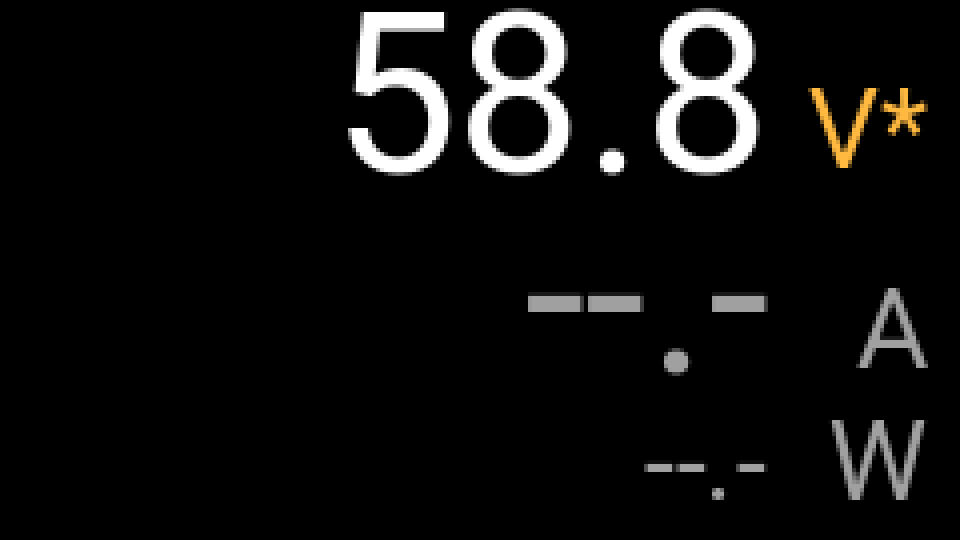
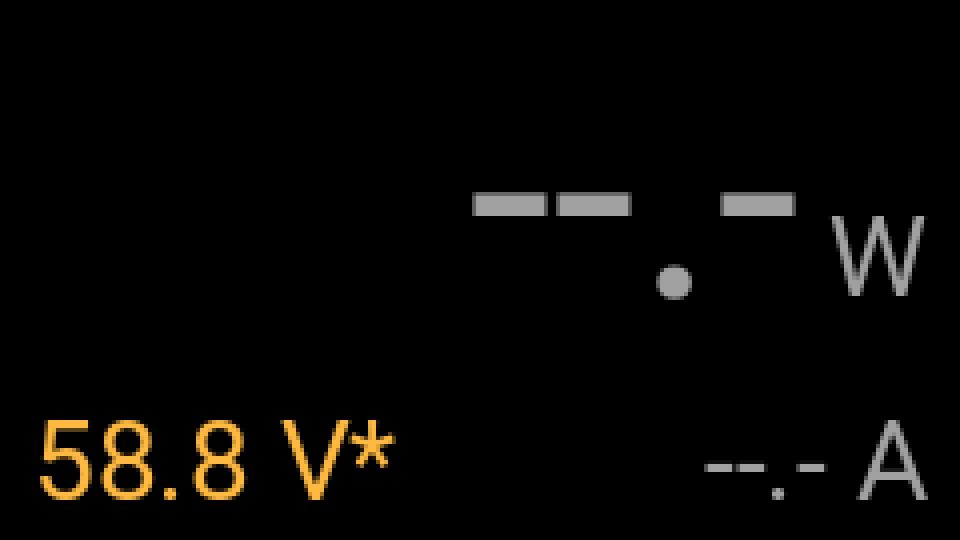
Prioritize watts with a compact single-row voltage and current footer

diff --git a/tests/telemetry_view_test.cpp b/tests/telemetry_view_test.cpp
@@ -401,23 +401,27 @@ void test_meter_values_and_power() {
   Event ui; ui.type = EventType::UI_STATE; ui.ui_mode = UiMode::METER; deliver(bus, ui);
   deliver(bus, telemetry(52.7f, 3.2f, 1000));
   auto view = make_view(bus.snapshot(), 1000);
-  assert(view.count == 6 && view.labels[0].font == Font::HERO);
-  assert(view.labels[0].text == "52.7" && view.labels[2].text == "3.2" && view.labels[4].text == "168.6");
+  assert(view.count == 4 && view.labels[0].font == Font::HERO);
+  assert(view.labels[0].text == "168.6" && view.labels[2].text == "52.7 V" && view.labels[3].text == "3.2 A");
   assert(!contains(view, "58.4") && !contains(view, "BLE") && !contains(view, "设定"));
   for (uint32_t time : {7000u, 7001u}) {
     view = make_view(bus.snapshot(), time);
-    assert(view.labels[0].text == "--.-" && view.labels[2].text == "--.-" && view.labels[4].text == "--.-");
+    assert(view.labels[0].text == "--.-" && view.labels[2].text == "--.- V" && view.labels[3].text == "--.- A");
   }
   Event cap; cap.type = EventType::TELEMETRY_CAPABILITY; cap.telemetry_supported = true;
   cap.telemetry_channels = 1; cap.telemetry_inferred = true; deliver(bus, cap);
   deliver(bus, telemetry(58.9f, 99.0f, 8000));
   view = make_view(bus.snapshot(), 8000);
-  assert(view.labels[0].text == "58.9" && view.labels[1].text == "V*");
-  assert(view.labels[2].text == "--.-" && view.labels[4].text == "--.-");
+  assert(view.labels[2].text == "58.9 V*" && view.labels[1].text == "W");
+  assert(view.labels[0].text == "--.-" && view.labels[3].text == "--.- A");
   connect(bus, false); view = make_view(bus.snapshot(), 8001);
-  assert(view.labels[0].text == "--.-" && view.labels[4].text == "--.-");
+  assert(view.labels[0].text == "--.-" && view.labels[3].text == "--.- A");
   connect(bus); capability(bus); deliver(bus, telemetry(0.0f, 0.0f, 9000));
-  view = make_view(bus.snapshot(), 9000); assert(view.labels[4].text == "0.0");
+  view = make_view(bus.snapshot(), 9000); assert(view.labels[0].text == "0.0");
+  deliver(bus, telemetry(100.0f, 10.0f, 9001));
+  view = make_view(bus.snapshot(), 9001);
+  assert(view.labels[0].text == "1000.0" && view.labels[0].font == Font::LARGE);
+  assert(view.labels[2].y == view.labels[3].y);  // V/A share the footer row.
 }
 
 int main() {

diff --git a/components/charger_display/charger_display.h b/components/charger_display/charger_display.h
@@ -106,13 +106,14 @@ inline View make_view(const charger_event_bus::Snapshot &state, uint32_t now) {
     // Both measurements must belong to the same accepted, fresh telemetry event.
     // Setpoints never participate, and an unavailable current never becomes zero watts.
     const float power = std::isfinite(voltage) && std::isfinite(current) ? voltage * current : NAN;
-    view.add(192, -9, Font::HERO, std::isfinite(voltage) ? Ink::WHITE : Ink::MUTED, number(voltage), true);
-    view.add(232, 16, Font::POWER, state.telemetry_inferred ? Ink::AMBER : Ink::MUTED,
-        state.telemetry_inferred ? "V*" : "V", true);
-    view.add(192, 41, Font::HERO, std::isfinite(current) ? Ink::WHITE : Ink::MUTED, number(current), true);
-    view.add(232, 66, Font::POWER, Ink::MUTED, "A", true);
-    view.add(192, 99, Font::POWER, std::isfinite(power) ? Ink::WHITE : Ink::MUTED, number(power), true);
-    view.add(232, 99, Font::POWER, Ink::MUTED, "W", true);
+    const std::string watts = number(power);
+    const bool large_watts = watts.size() <= 5;
+    view.add(200, large_watts ? 3 : 37, large_watts ? Font::HERO : Font::LARGE,
+        std::isfinite(power) ? Ink::WHITE : Ink::MUTED, watts, true);
+    view.add(232, 48, Font::POWER, Ink::MUTED, "W", true);
+    view.add(8, 99, Font::POWER, state.telemetry_inferred ? Ink::AMBER : Ink::MUTED,
+        number(voltage) + (state.telemetry_inferred ? " V*" : " V"));
+    view.add(232, 99, Font::POWER, Ink::MUTED, number(current) + " A", true);
     return view;
   }
   const char *link = state.connected ? "BLE 已连接" :

diff --git a/tests/render_lcd.py b/tests/render_lcd.py
@@ -33,7 +33,7 @@ def main():
     missing = {c for c in labels if ord(c) > 127} - declared
     if missing:
         raise RuntimeError(f'UI font inventory missing characters: {sorted(missing)}')
-    fonts = [ImageFont.truetype(str(ROOT / 'assets/ChargerSansSC.ttf'), n) for n in (12, 14)] + [ImageFont.truetype(str(ROOT / 'assets/Roboto.ttf'), n) for n in (40, 56, 28)]
+    fonts = [ImageFont.truetype(str(ROOT / 'assets/ChargerSansSC.ttf'), n) for n in (12, 14)] + [ImageFont.truetype(str(ROOT / 'assets/Roboto.ttf'), n) for n in (40, 76, 28)]
     colors = [(255, 255, 255), (160, 160, 160), (64, 230, 140), (255, 185, 64)]
     names = []
     args.output.mkdir(parents=True, exist_ok=True)

diff --git a/tests/render_lcd.cpp b/tests/render_lcd.cpp
@@ -41,6 +41,9 @@ int main() {
   state.ui_mode = UiMode::METER;
   emit("lcd-meter-simulation.png", state);
   emit("lcd-meter-stale-preview.png", state, 8000);
+  state.output_voltage = 100.0f; state.output_current = 10.0f;
+  emit("lcd-meter-wide-simulation.png", state);
+  state.output_voltage = 53.8f; state.output_current = 4.9f;
   state.ui_mode = UiMode::VIEW;
   emit("lcd-stale-simulation.png", state, 8000);
   state.connected = state.connection_enabled = state.ready = false;

diff --git a/README.md b/README.md
@@ -146,11 +146,11 @@ Local feedback distinguishes **parameters refreshed**, **settings confirmed**, a
 
 ### Idle meter page
 
-With both LCD and Button enabled, **15 seconds without button activity on the home page** opens a dedicated meter: **56 px voltage and current**, with power below. It shows only the three readings and units. Any A/B press returns to the home page; the entire wake gesture is consumed, so it cannot also refresh, connect, edit, or submit. Editing, confirmation, Help, pending requests and held buttons do not switch to the meter. LCD-only builds keep the home page.
+With both LCD and Button enabled, **15 seconds without button activity on the home page** opens a dedicated meter: **76 px power as the main reading**, with voltage and current together in a smaller 28 px footer row. Longer power readings shrink to fit. It shows only the three readings and units. Any A/B press returns to the home page; the entire wake gesture is consumed, so it cannot also refresh, connect, edit, or submit. Editing, confirmation, Help, pending requests and held buttons do not switch to the meter. LCD-only builds keep the home page.
 
 Power is **live voltage × live current from the same fresh telemetry sample**, never a product of setpoints. The current voltage-only decoder leaves current and power as `--.-`. Disconnected, invalid or stale readings also become `--.-`. Amber `V*` preserves the provisional-voltage warning; return home for full BLE/data status.
 
-<img src="docs/images/lcd-meter-preview.png" width="480" alt="Idle meter layout preview: large provisional voltage, unavailable current and power">
+<img src="docs/images/lcd-meter-preview.png" width="480" alt="Idle meter layout preview: large power reading, with voltage and current together below">
 
 [All-channel meter simulation](docs/images/lcd-meter-simulation.png) demonstrates computed power using synthetic values, not device measurements.
 

diff --git a/README.zh-CN.md b/README.zh-CN.md
@@ -144,11 +144,11 @@ esphome logs esp32-headless.yaml --device /dev/cu.YOUR_PORT
 
 ### 待机仪表页
 
-同时启用 LCD 和 Button 时，**主页 15 秒没有按键操作**，自动进入专属仪表页：电压、电流使用 **56 px 大字**，功率单独显示在底部，只保留三项读数和单位。按 A 或 B 返回主页；唤醒的整次手势会被消费，不会同时刷新、连接、编辑或提交。编辑、确认、帮助、请求未完成及按住按键时不会切入仪表页。仅有 LCD、没有 Button 的配置继续显示主页。
+同时启用 LCD 和 Button 时，**主页 15 秒没有按键操作**，自动进入专属仪表页：功率使用 **76 px 大字**作为主体，电压、电流用 28 px 字体并排放在底部一行；较长的功率数字会缩小以避免溢出，只保留三项读数和单位。按 A 或 B 返回主页；唤醒的整次手势会被消费，不会同时刷新、连接、编辑或提交。编辑、确认、帮助、请求未完成及按住按键时不会切入仪表页。仅有 LCD、没有 Button 的配置继续显示主页。
 
 功率使用**同一份新鲜实时样本的电压 × 电流**，不使用设定值。目前仅解析电压，电流和功率均显示 `--.-`；断连、数据无效或过期也显示 `--.-`。琥珀色 `V*` 表示电压映射仍待核验，回到主页可查看完整 BLE 和数据状态。
 
-<img src="docs/images/lcd-meter-preview.png" width="480" alt="待机仪表页布局预览：大字推定电压、电流和功率未知">
+<img src="docs/images/lcd-meter-preview.png" width="480" alt="待机仪表页布局预览：功率大字居主位，电压和电流底部并排">
 
 [三项数据模拟预览](docs/images/lcd-meter-simulation.png) 使用合成值演示功率计算，不是设备实测数据。
 

diff --git a/components/charger_display/README.md b/components/charger_display/README.md
@@ -80,8 +80,9 @@ and button check.
 
 ## Dedicated idle meter
 
-`UI_STATE.ui_mode=METER` selects a six-label page: voltage/current in 56 px
-Roboto, power and V/A/W units in 28 px. No setpoints or operation/status rows are
+`UI_STATE.ui_mode=METER` selects a four-label page: power in 76 px
+Roboto with a W unit, and voltage/current together in a 28 px footer row. Power
+strings longer than five characters use 40 px so they fit. No setpoints or operation/status rows are
 shown. An amber `V*` retains the inferred-voltage marker. The normal page gives
 the full explanation. Power is computed only from finite, declared voltage and
 current channels in the same fresh sample. Voltage-only, missing, invalid,
